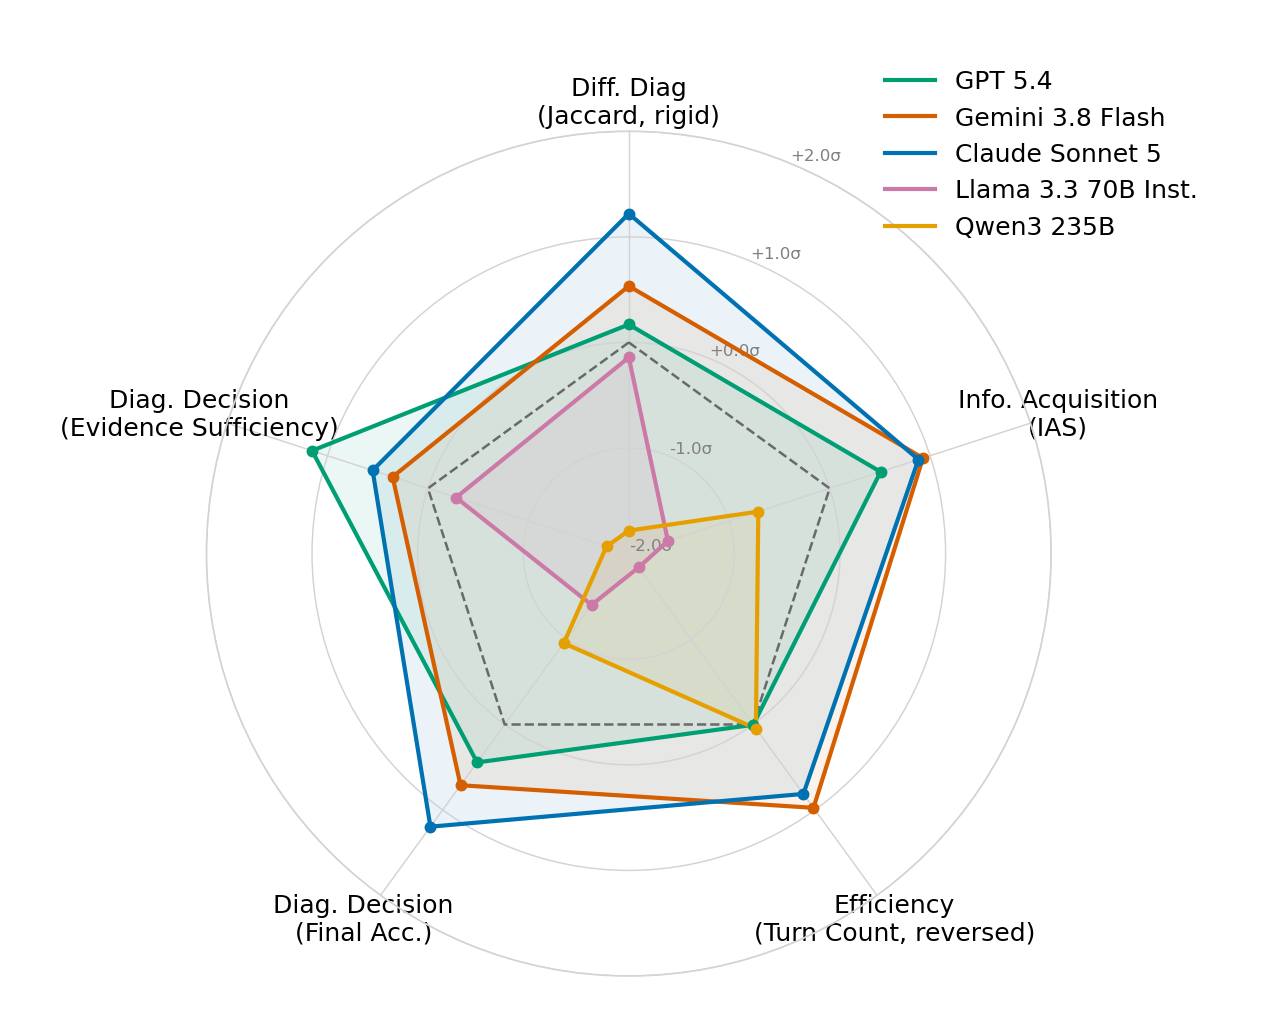
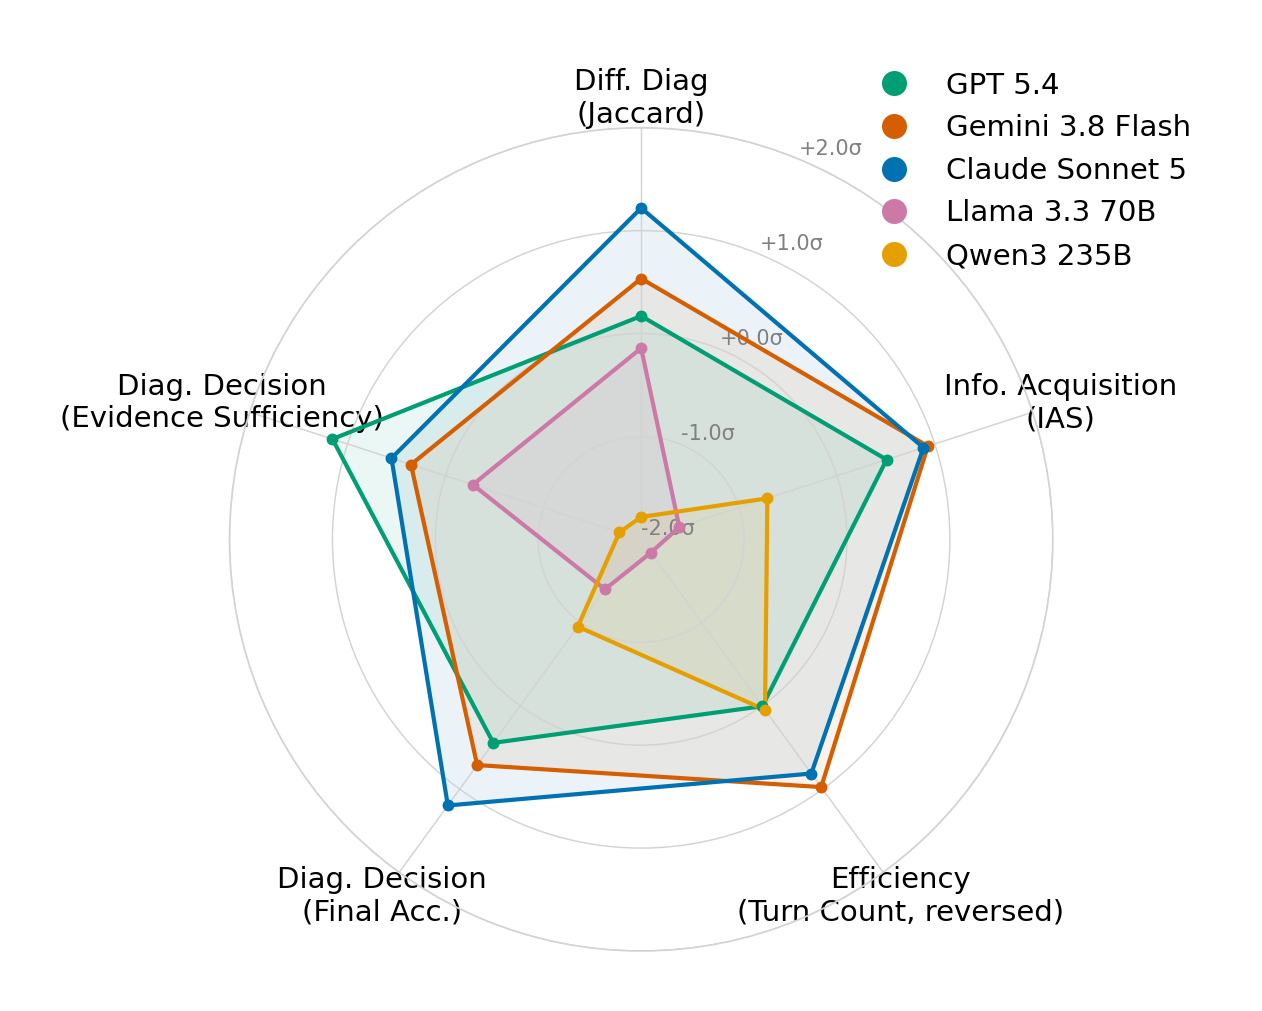
radar plot

diff --git a/reporting/plot_v4_radar_by_judge.py b/reporting/plot_v4_radar_by_judge.py
@@ -56,7 +56,7 @@ from utils.paths import ANALYSIS_ROOT
 # the loose union of high|moderate|low_likely — see eval/evaluate_turns.py's
 # rigid_truth_set and reporting/plot_v4_rigid_vs_loose.py.
 METRICS = [
-    ("Diff. Diag\n(Jaccard, rigid)", "jaccard_rigid"),
+    ("Diff. Diag\n(Jaccard)", "jaccard_rigid"),
     ("Info. Acquisition\n(IAS)", "ias"),
     ("Efficiency\n(Turn Count, reversed)", "turn_count"),
     ("Diag. Decision\n(Final Acc.)", "final_accuracy_pct"),
@@ -79,7 +79,7 @@ DOCTOR_NAME_CANONICAL = {
     "gpt-5.4": "GPT 5.4",
     "gemini-3.8-flash": "Gemini 3.8 Flash",
     "claude-sonnet-5": "Claude Sonnet 5",
-    "llama-3.3-70b-instruct": "Llama 3.3 70B Inst.",
+    "llama-3.3-70b-instruct": "Llama 3.3 70B",
     "qwen3-235b": "Qwen3 235B",
 }
 
@@ -186,22 +186,23 @@ def main() -> None:
         ax.set_theta_direction(-1)
 
         ax.set_xticks(angles[:-1])
-        ax.set_xticklabels([label for label, _field in METRICS], fontsize=12)
+        ax.set_xticklabels([label for label, _field in METRICS], fontsize=14)
         ax.set_ylim(-zlim, zlim)
         yticks = np.linspace(-zlim, zlim, 5)
         ax.set_yticks(yticks)
-        ax.set_yticklabels([f"{t:+.1f}σ" for t in yticks], fontsize=8, color="gray")
+        ax.set_yticklabels([f"{t:+.1f}σ" for t in yticks], fontsize=10, color="gray")
         ax.grid(color="lightgray", linewidth=0.7)
         ax.spines["polar"].set_color("lightgray")
 
-        ax.plot(angles, [0] * len(angles), color="dimgray", linewidth=1.2,
-                linestyle="--", zorder=2)
+        # Dashed baseline ring at z=0 (the panel's per-metric mean).
+        # ax.plot(angles, [0] * len(angles), color="dimgray", linewidth=1.2,
+        #         linestyle="--", zorder=2)
 
         for j, model in enumerate(models):
             vals = z[:, j].tolist()
             vals += vals[:1]
             color = color_of[model.lower()]
-            ax.plot(angles, vals, color=color, linewidth=2, label=DOCTOR_NAME_CANONICAL.get(model, model))
+            ax.plot(angles, vals, color=color, linewidth=2)
             ax.fill(angles, vals, color=color, alpha=0.08)
             ax.scatter(angles[:-1], vals[:-1], color=color, s=22, zorder=3)
 
@@ -218,7 +219,16 @@ def main() -> None:
         #     f"Diagnostic Profile (judge: {judge})\n({subtitle})",
         #     fontsize=11.5, pad=30,
         # )
-        ax.legend(loc="upper right", fontsize=12, frameon=False, bbox_to_anchor=(1.2, 1.1), )
+        # Circle-marker legend handles (not the line itself) — same
+        # plt.Line2D-proxy convention as the other v4 scripts' "Doctor model" legends.
+        legend_handles = [
+            plt.Line2D([0], [0], marker="o", color="w", markerfacecolor=color_of[m.lower()],
+                       markeredgecolor=color_of[m.lower()], markersize=11,
+                       label=DOCTOR_NAME_CANONICAL.get(m, m))
+            for m in models
+        ]
+        ax.legend(handles=legend_handles, loc="upper right", fontsize=14,
+                  frameon=False, bbox_to_anchor=(1.2, 1.1))
 
         fig.tight_layout()
         out_path = Path(f"{out_prefix}{judge}.png")
